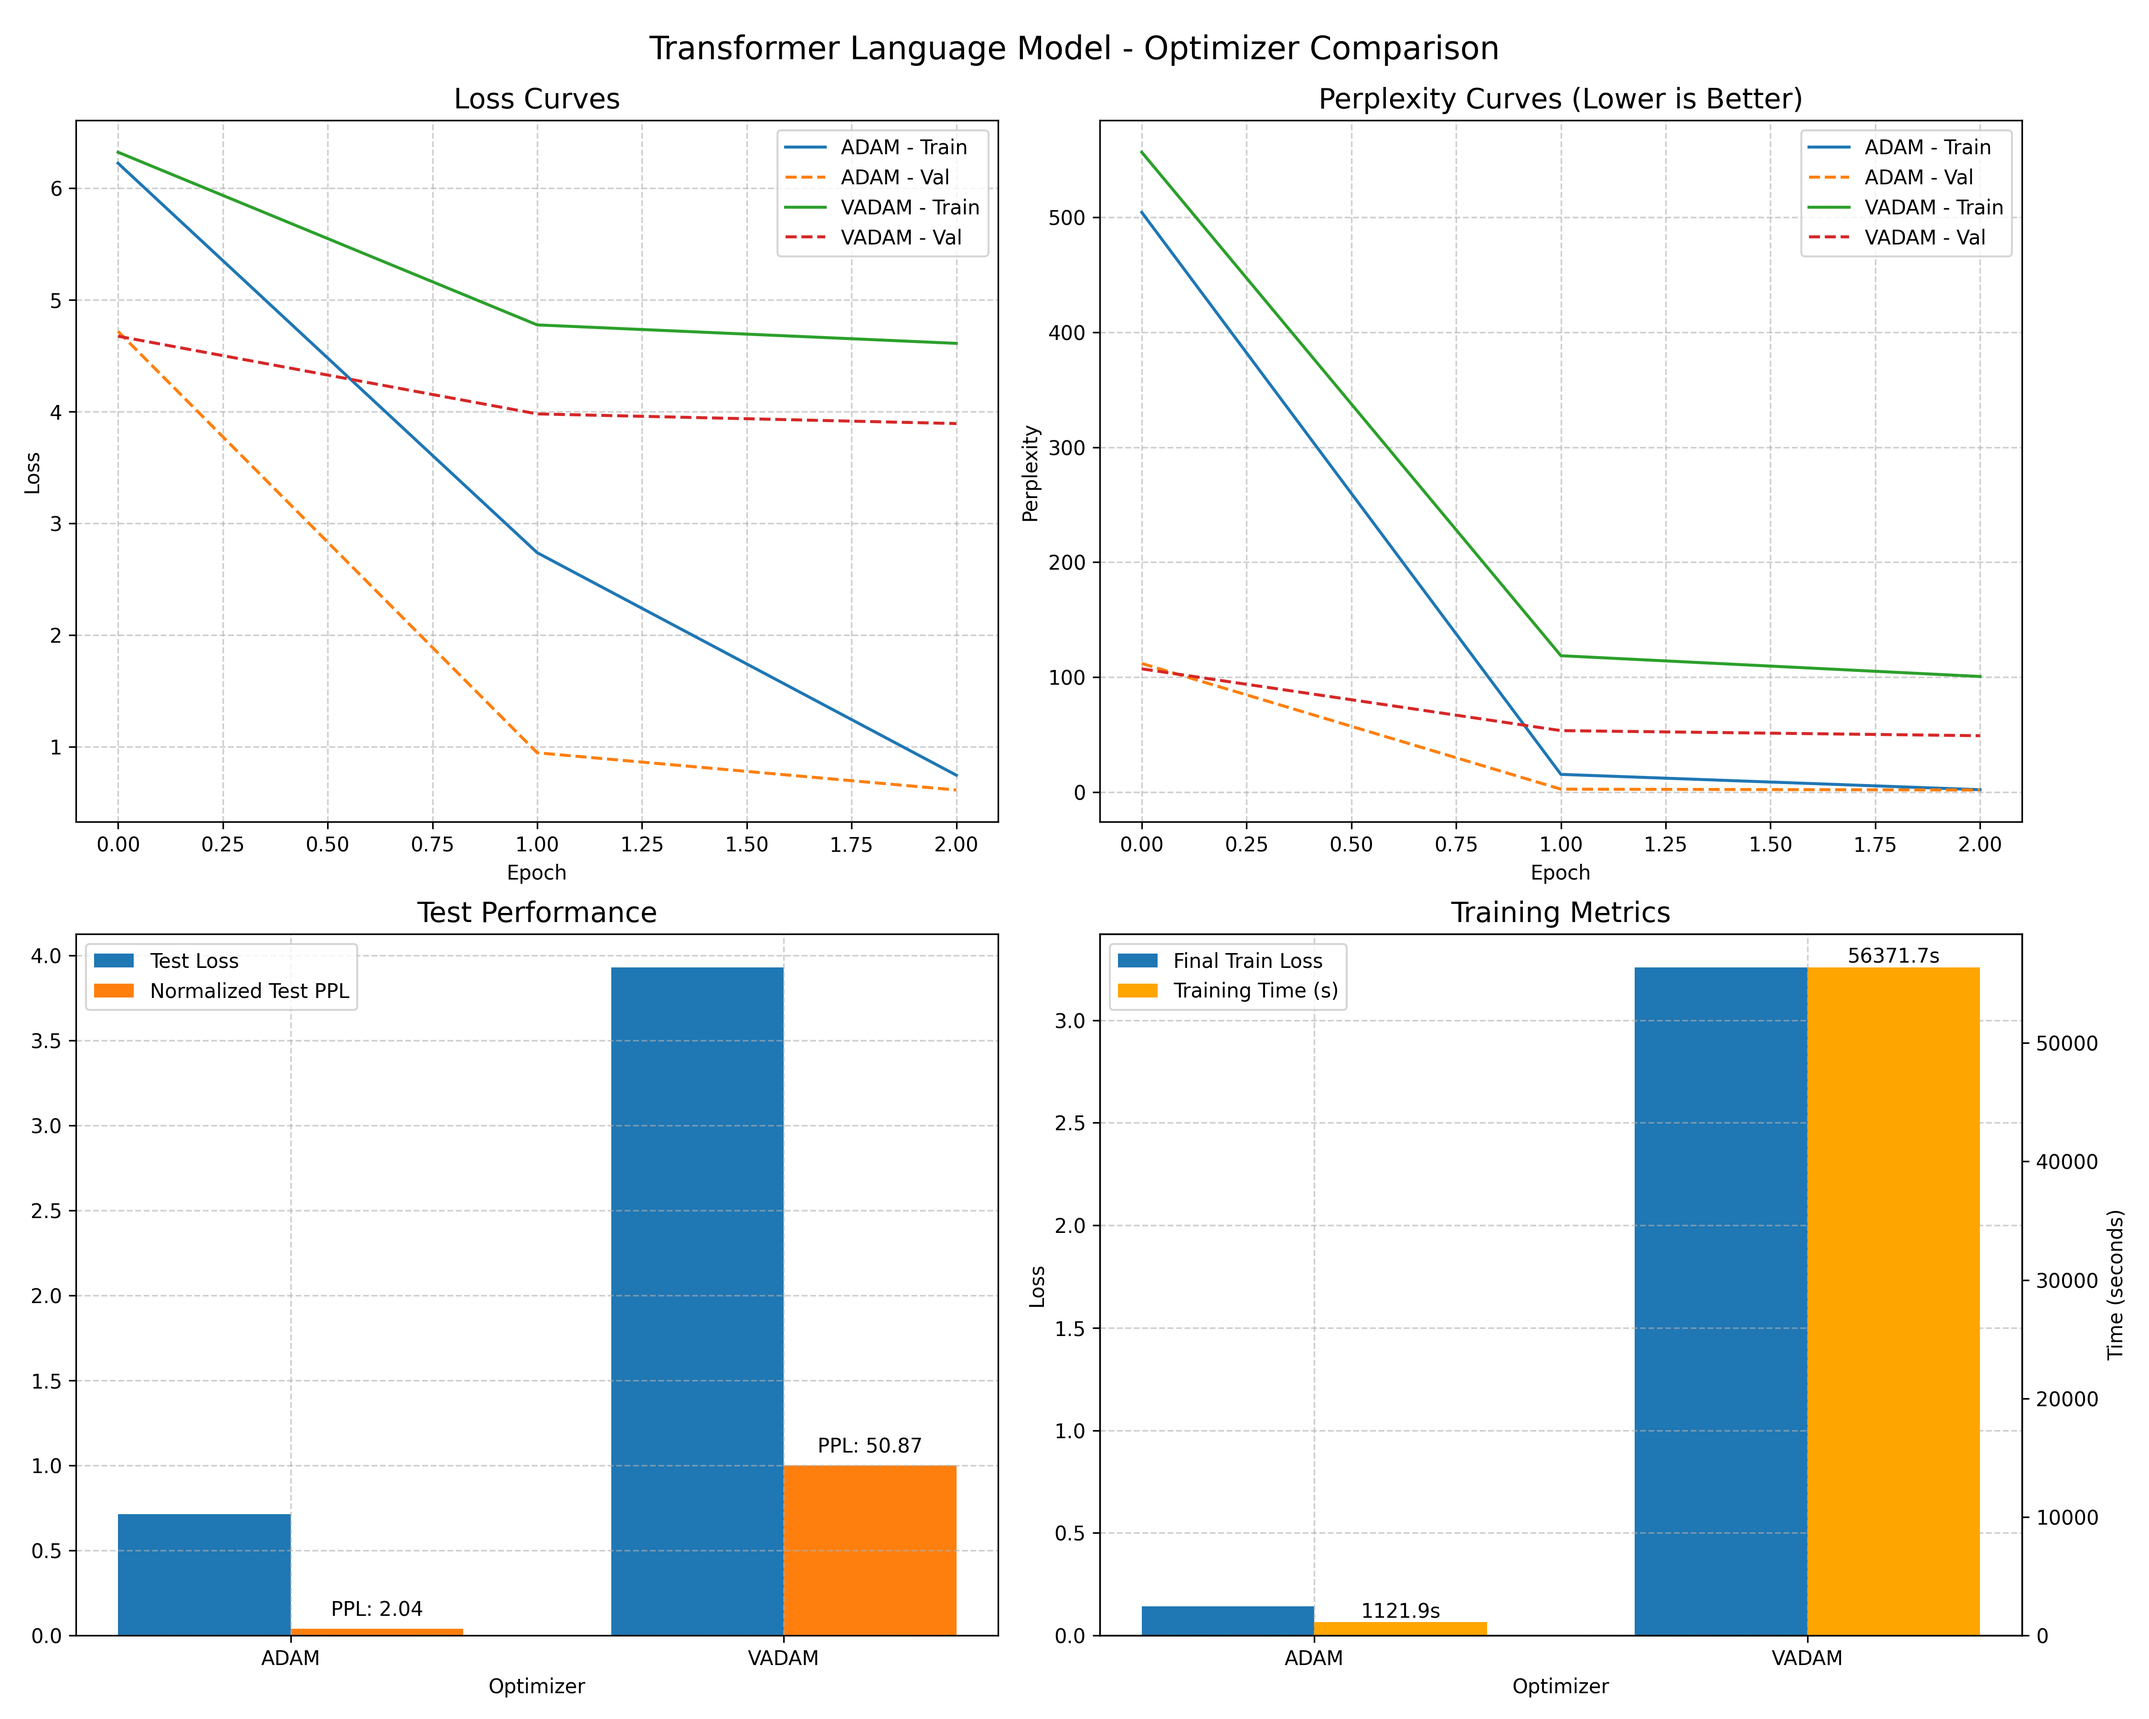
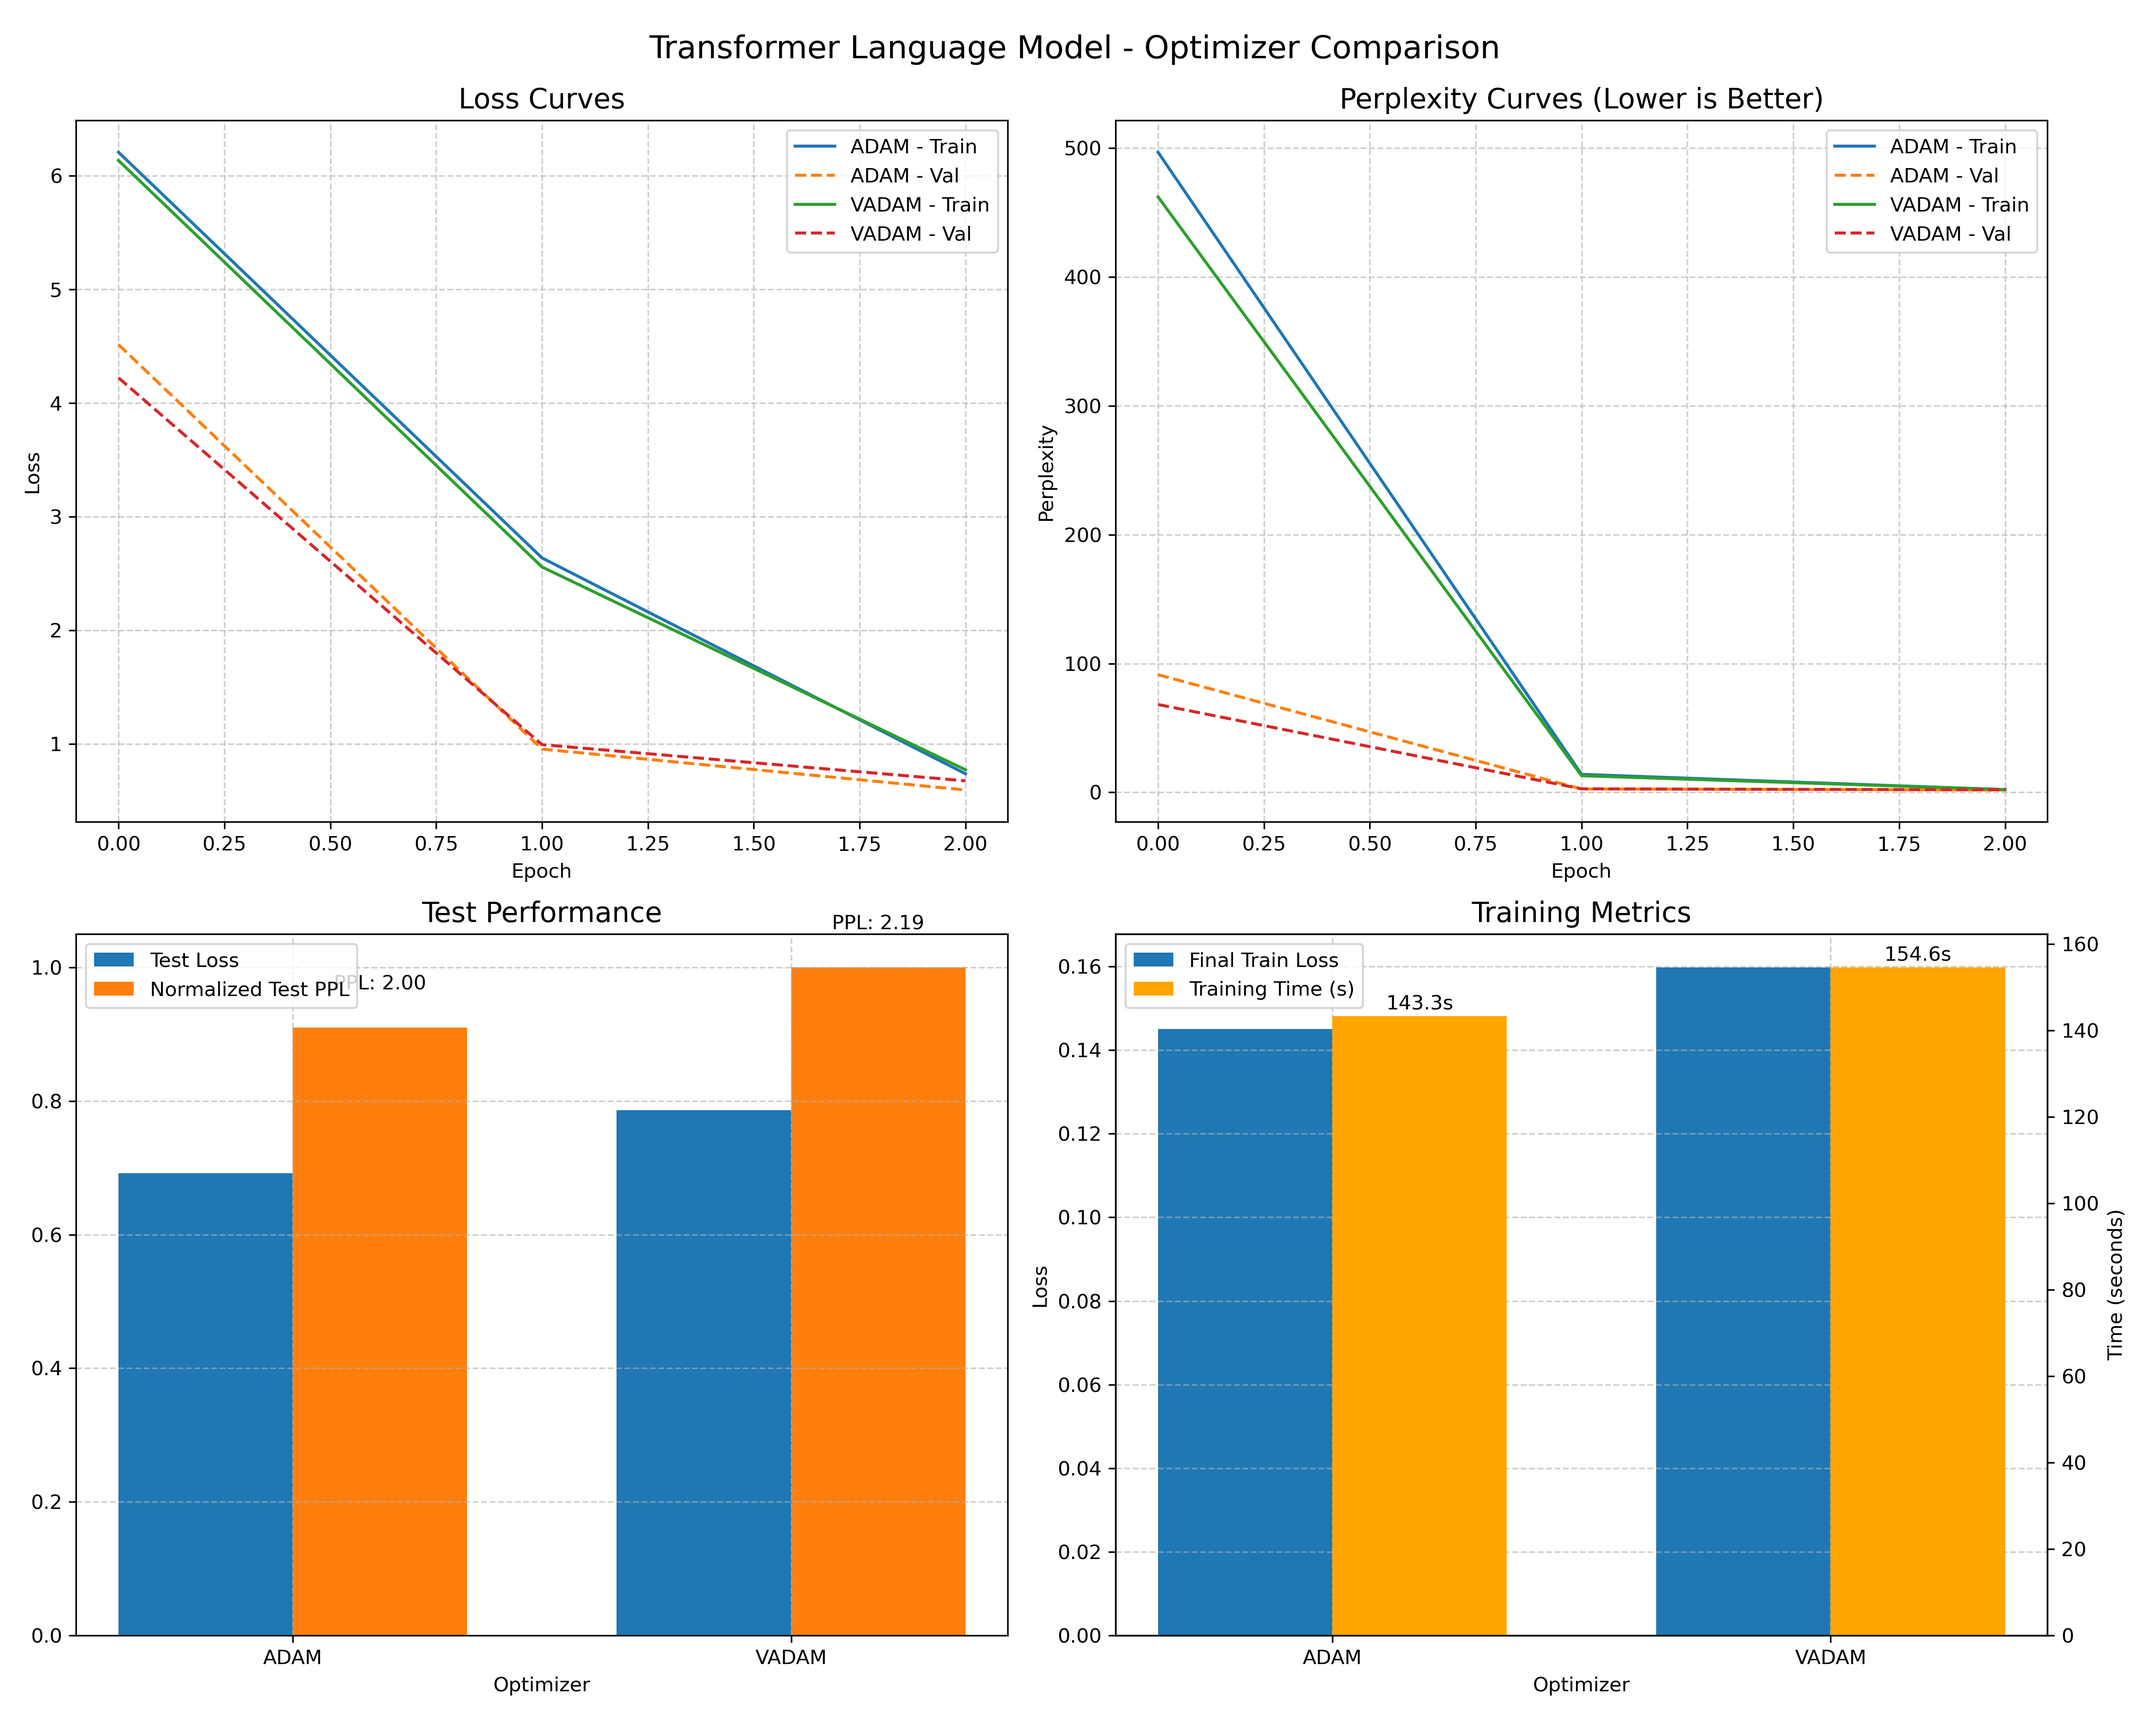
tested on lambda

diff --git a/transformer_benchmark.py b/transformer_benchmark.py
@@ -6,6 +6,9 @@ import math
 import json
 from benchmarker import Benchmarker
 from datetime import datetime
+import nltk
+
+nltk.download('punkt_tab')
 
 def plot_transformer_results(results):
     """Plot the transformer benchmark results with a focus on loss and perplexity"""
@@ -119,7 +122,7 @@ def run_transformer_benchmark():
     # Define parameters for the benchmark
     params = {
         'model': 'TransformerModel',
-        'device': 'mps',  # Will automatically fall back to CPU if MPS is not available
+        'device': 'cuda',  # Will automatically fall back to CPU if MPS is not available
         'dataset': 'WikiText2',
         'dataset_size': 'large',  # Use 'small' for faster demonstration
         'batch_size': 32,
